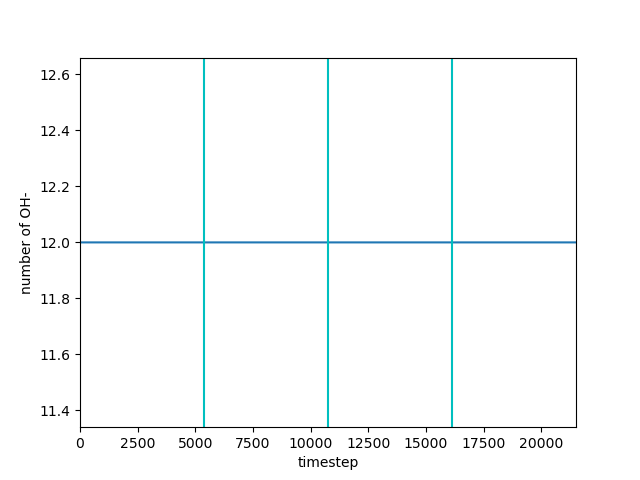
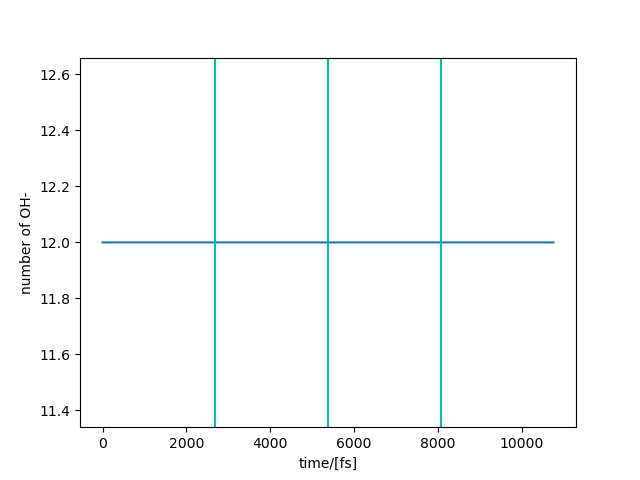
done

diff --git a/post-processing scripts/KOH systems/mpi_python.py b/post-processing scripts/KOH systems/mpi_python.py
@@ -11,11 +11,12 @@ from mpi4py import MPI
 # import sys
 import time
 import os
+import h5py
 
 class Prot_Hop:
     """MPI supporting postprocesses class for NVT VASP simulations of aqueous KOH."""
 
-    def __init__(self, folder, T_ave=325, dt=0.5, cheap=True, time_it=False):
+    def __init__(self, folder, T_ave=325, cheap=True, time_it=False):
         """
         Postprocesses class for NVT VASP simulations of aqueous KOH.
 
@@ -28,13 +29,9 @@ class Prot_Hop:
         Args:
             folder (string): path to hdf5 otput file
             T_ave (float/int, optional): The set simulation temperature in K. Defaults to 325.
-            dt (float/int, optional): The simulation timestep in fs. Defaults to 0.5.
-            cheap (bool, optional): skips less relevant interaction modes. Defaults to True.
         """
         self.tstart = time.time()
-        self.dt = dt
         self.species = ['H', 'O', 'K']
-        self.T_ave = T_ave
 
         self.comm = MPI.COMM_WORLD
         self.size = self.comm.Get_size()
@@ -65,25 +62,47 @@ class Prot_Hop:
         # loop over subsimulations
         for i in range(len(subsimulations)):
             self.df = Calculation.from_file(subsimulations[i])
-            data = self.df.structure[:].to_dict()
+            data_s = self.df.structure[:].to_dict()
+            data_f = self.df.force[9::10].to_dict()
             if i == 0:
-                # Load initial properties and arrays out of first simulation
-                self.N = np.array([data['elements'].count(self.species[0]),
-                                   data['elements'].count(self.species[1]),
-                                   data['elements'].count(self.species[2])])
-                self.L = data['lattice_vectors'][0, 0, 0]  # Boxsize
-                self.pos_all = self.L*data['positions']
+                # Load initial structure properties and arrays out of first simulation
+                self.N = np.array([data_s['elements'].count(self.species[0]),
+                                   data_s['elements'].count(self.species[1]),
+                                   data_s['elements'].count(self.species[2])])
+                self.L = data_s['lattice_vectors'][0, 0, 0]  # Boxsize
+                self.pos_all = self.L*data_s['positions']
+                
+                # load initial force properties and arrays out of first simulation
+                self.force = data_f['forces']
+                
+                # Read custom data out of HDF5 file (I do not know how to get it out of py4vasp)
+                hdf5_structure = h5py.File(subsimulations[i])
+                self.dt = hdf5_structure['/input/incar/POTIM'][()]
+                try:
+                    skips =  hdf5_structure['/input/incar/ML_OUTBLOCK'][()]
+                except:
+                    skips = 1
+                    print("no ML_OUTBLOCK in INCAR, skips = 1")
+                self.dt *= skips
+                self.T_set = float(hdf5_structure['/input/incar/TEBEG'][()])
             else:
                 # load new positions, but apply pbc unwrapping (# ARGHGH VASP)
-                pos = self.L*data['positions']
+                pos = self.L*data_s['positions']
                 dis_data = self.pos_all[-1, :, :] - pos[0, :, :]
                 dis_real = ((self.pos_all[-1, :, :] - pos[0, :, :] + self.L/2) % self.L - self.L/2)
                 pos -= (dis_real - dis_data)
                 # now matching together
                 self.pos_all = np.concatenate((self.pos_all, pos), axis=0)
+                
+                # load new forces and add to old array
+                force = data_f['forces']
+                self.force = np.concatenate((self.force, force), axis=0)
         
+        print("sizes of position and force arrays are", self.pos_all.shape, self.force.shape, "respectively, on rank", self.rank)
         # After putting multiple simulations together
         self.pos_all_split = np.array_split(self.pos_all, self.size, axis=0)
+        self.force_split = np.array_split(self.force, self.size, axis=0)
+
         # calculate chunk sizes for communication
         self.chunks = [int]*self.size
         self.steps_split = [None]*self.size
@@ -114,11 +133,16 @@ class Prot_Hop:
             self.chunks = [None]*self.size
             self.L = float
             self.N = int
+            self.dt = float
+            self.T_set = float
         
         self.chunks = self.comm.bcast(self.chunks, root=0)
         self.L = self.comm.bcast(self.L, root=0)
         self.N = self.comm.bcast(self.N, root=0)
+        self.dt = self.comm.bcast(self.dt, root=0)
+        self.T_set =  self.comm.bcast(self.T_set, root=0)
         
+        # print('self.dt is', self.dt, 'self.T_set is', self.T_set, 'rank is', self.rank)
         # Asses the number of Hydrogens
         self.N_tot = np.sum(self.N)
         self.N_H = self.N[self.species.index('H')]
@@ -135,11 +159,15 @@ class Prot_Hop:
         
         if self.rank != 0:
             self.pos_all_split = [np.empty((self.chunks[i], self.N_tot, 3)) for i in range(self.size)]  # create empty dumy on all cores
+            self.force_split = [np.empty((self.chunks[i], self.N_tot, 3)) for i in range(self.size)]  # create empty dumy on all cores
             self.steps_split = [np.empty(self.chunks[i]) for i in range(self.size)]
 
         # Import the correct split position arrays
         self.pos = self.comm.scatter(self.pos_all_split, root=0)
+        self.force = self.comm.scatter(self.force_split, root=0)
         self.steps = self.comm.scatter(self.steps_split, root=0)
+        
+        print("sizes of position and force arrays are", self.pos.shape, self.force.shape, "respectively, on rank", self.rank)
 
         self.n_max = len(self.pos[:, 0, 0])  # number of timestep on core
         # communicate if cheapened calculation (less interaction types included)
@@ -250,7 +278,7 @@ class Prot_Hop:
                 self.H2O[n, :, :] = self.pos_O[n, self.H2O_i[n, :], :]+ self.L*self.H2O_shift
                 self.OH_i_s = OH_i  # always sort after reaction or initiation to have a cheap check lateron.
 
-    def loop_timesteps_all(self, n_samples=100): 
+    def loop_timesteps_all(self, n_samples=10): 
         """This function loops over all timesteps and tracks all over time properties
         
         The function tracks calls the molecule recognition function and the rdf functions when needed.
@@ -313,7 +341,7 @@ class Prot_Hop:
         if self.rank == 0 and self.time_it is True:
             print('Time calculating distances', time.time() - self.tstart)
 
-    def rdf_compute_all(self, n, nb=128, r_max=None):
+    def rdf_compute_all(self, n, nb=128, r_max=None, force_RDF=False):
         # RDF startup scheme
         if n == 0:
             # set standard maximum rdf value
@@ -338,7 +366,7 @@ class Prot_Hop:
                 self.rdf_HH2O = np.zeros(self.r.size -1)
                 self.rdf_HK = np.zeros(self.r.size -1)
                 self.rdf_HH = np.zeros(self.r.size -1)
-        
+
         # Now calculate all rdf's (without rescaling them, will be done later)
         self.rdf_H2OH2O += np.histogram(self.d_H2OH2O, bins=self.r)[0]
         self.rdf_OHH2O += np.histogram(self.d_OHH2O, bins=self.r)[0]
@@ -464,6 +492,9 @@ class Prot_Hop:
         self.n_H3O = np.concatenate(self.n_H3O, axis=0)
         
         # RDF functionality has no need to do anything
+        
+        # Getting a time array
+        self.t = np.arange(self.OH_i.shape[0])*self.dt
 
     def test_combining(self):
         if self.rank == 0:
@@ -475,32 +506,29 @@ class Prot_Hop:
                 try:
                     os.makedirs(path, exist_ok=True)
                 except OSError as error:
-                    print(error, "Continuing")
+                    print("os.mkdir threw error, but continued with except:", error)
                     
                 np.savez(path + r"/output.npz",
                          OH_i=self.OH_i, OH=self.OH, H2O_i=self.H2O_i, H2O=self.H2O,  # tracking OH-
                          r_rdf=self.r_cent, rdf_H2OH2O=self.rdf_H2OH2O, rdf_OHH2O=self.rdf_OHH2O, rdf_KH2O=self.rdf_KH2O)  # sensing the rdf
 
-                plt.plot(self.OH_i)             
-                plt.xlim(0, self.size*self.pos_O.shape[0])      
-                plt.xlabel('timestep')      
+                plt.plot(self.t, self.OH_i)  
+                plt.xlabel('time/[fs]')
                 plt.ylabel('OH- atom index')
                 plt.savefig(path + r'/index_OH.png')
                 plt.close()
                 
                 plt.figure()
-                plt.plot(self.n_OH)
-                plt.xlim(0, self.size*self.pos_O.shape[0])
-                plt.xlabel('timestep')      
+                plt.plot(self.t, self.n_OH)
+                plt.xlabel('time/[fs]')      
                 plt.ylabel('number of OH-')
                 plt.savefig(path + r'/n_OH.png')  
                 plt.close()
                               
                 disp = np.sqrt(np.sum((self.OH[1:, :, :]- self.OH[:-1, :, :])**2, axis=2))
                 plt.figure()
-                plt.plot(disp)
-                plt.xlim(0, self.size*self.pos_O.shape[0])
-                plt.xlabel('timestep')      
+                plt.plot(self.t[:-1], disp)
+                plt.xlabel('time/[fs]')      
                 plt.ylabel('displacement between timesteps/[Angstrom]')
                 plt.savefig(path + r'/dis_OH.png')
                 plt.close()
@@ -550,32 +578,29 @@ class Prot_Hop:
                 
                 plt.figure()
                 # plt.plot(self.OH[:, 0, :], label=['x', 'y', 'z'])
-                plt.plot(self.OH_i)
+                plt.plot(self.t, self.OH_i)
                 for i in range(1, self.size):
-                    plt.axvline(x = self.pos_O.shape[0]*i, color = 'c')
-                plt.xlim(0, self.size*self.pos_O.shape[0])  
-                plt.xlabel('timestep')      
+                    plt.axvline(x=self.t[-1]*i/self.size, color = 'c')
+                plt.xlabel('time/[fs]')      
                 plt.ylabel('OH- atom index')          
                 plt.savefig(path + r'/index_OH.png')
                 plt.close()
                 
                 plt.figure()
-                plt.plot(self.n_OH)
+                plt.plot(self.t, self.n_OH)
                 for i in range(1, self.size):
-                    plt.axvline(x = self.pos_O.shape[0]*i, color = 'c')
-                plt.xlim(0, self.size*self.pos_O.shape[0])
-                plt.xlabel('timestep')      
+                    plt.axvline(x=self.t[-1]*i/self.size, color = 'c')
+                plt.xlabel('time/[fs]')      
                 plt.ylabel('number of OH-')
                 plt.savefig(path + r'/n_OH.png')
                 plt.close()
                 
                 disp = np.sqrt(np.sum((self.OH[1:, :, :]- self.OH[:-1, :, :])**2, axis=2))
                 plt.figure()
-                plt.plot(disp)
+                plt.plot(self.t[:-1], disp)
                 for i in range(1, self.size):
-                    plt.axvline(x = self.pos_O.shape[0]*i, color = 'c')
-                plt.xlim(0, self.size*self.pos_O.shape[0])
-                plt.xlabel('timestep')      
+                    plt.axvline(x=self.t[-1]*i/self.size, color = 'c')
+                plt.xlabel('time/[fs]')      
                 plt.ylabel('displacement between timesteps/[Angstrom]')
                 plt.savefig(path + r'/dis_OH.png')
                 plt.close()
@@ -592,11 +617,11 @@ class Prot_Hop:
 
 
 ### TEST LOCATIONS ###
-# Traj = Prot_Hop(r"/mnt/c/Users/vlagerweij/Documents/TU jaar 6/Project KOH(aq)/Repros/RPBE_Production/AIMD/10ps/i_1/", dt=0.5)
-# Traj = Prot_Hop(r"/mnt/c/Users/vlagerweij/Documents/TU jaar 6/Project KOH(aq)/Repros/RPBE_Production/MLMD/100ps_Exp_Density/i_1", dt=0.5)
-# Traj = Prot_Hop(r"/Users/vlagerweij/Documents/TU jaar 6/Project KOH(aq)/Repros/RPBE_Production/MLMD/100ps_Exp_Density/i_1", dt=0.5)
-# Traj = Prot_Hop(r"/Users/vlagerweij/Documents/TU jaar 6/Project KOH(aq)/Repros/RPBE_Production/AIMD/10ps/i_1/", dt=0.5)
-Traj = Prot_Hop(r"/Users/vlagerweij/Documents/TU jaar 6/Project KOH(aq)/Repros/Quantum_to_Transport/post-processing scripts/KOH systems/test_output", dt=0.5, time_it=True)
-# Traj = Prot_Hop(r"/Users/vlagerweij/Documents/TU jaar 6/Project KOH(aq)/Repros/Quantum_to_Transport/post-processing scripts/KOH systems/test_output/combined_simulation", dt=0.5)
+# Traj = Prot_Hop(r"/mnt/c/Users/vlagerweij/Documents/TU jaar 6/Project KOH(aq)/Repros/RPBE_Production/AIMD/10ps/i_1/")
+# Traj = Prot_Hop(r"/mnt/c/Users/vlagerweij/Documents/TU jaar 6/Project KOH(aq)/Repros/RPBE_Production/MLMD/100ps_Exp_Density/i_1")
+# Traj = Prot_Hop(r"/Users/vlagerweij/Documents/TU jaar 6/Project KOH(aq)/Repros/RPBE_Production/MLMD/100ps_Exp_Density/i_1")
+# Traj = Prot_Hop(r"/Users/vlagerweij/Documents/TU jaar 6/Project KOH(aq)/Repros/RPBE_Production/AIMD/10ps/i_1/")
+Traj = Prot_Hop(r"/Users/vlagerweij/Documents/TU jaar 6/Project KOH(aq)/Repros/Quantum_to_Transport/post-processing scripts/KOH systems/test_output", time_it=True)
+# Traj = Prot_Hop(r"/Users/vlagerweij/Documents/TU jaar 6/Project KOH(aq)/Repros/Quantum_to_Transport/post-processing scripts/KOH systems/test_output/combined_simulation", time_it=True)
 
-# Traj = Prot_Hop(r"/home/jelle/simulations/RPBE_Production/6m/AIMD/i_1/part_1/", dt=0.5)
+# Traj = Prot_Hop(r"/home/jelle/simulations/RPBE_Production/6m/AIMD/i_1/part_1/")
